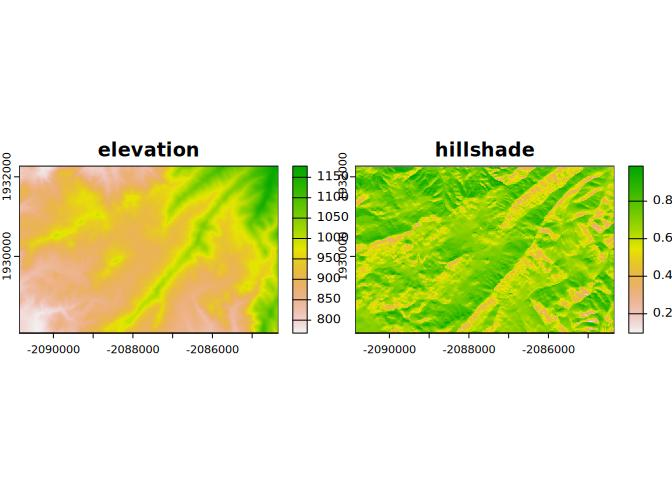
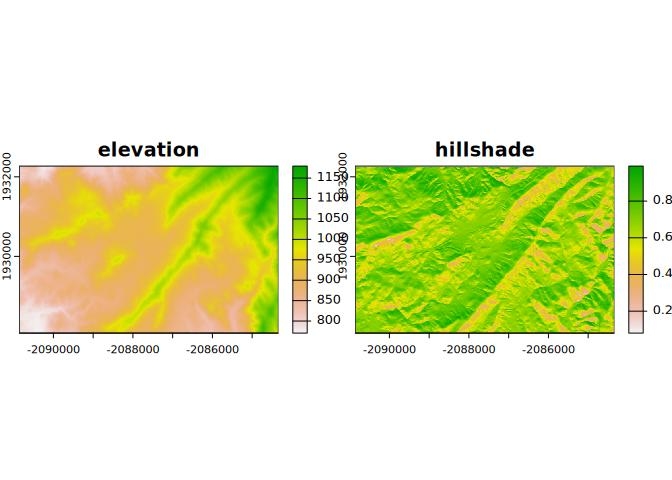
Bump examples and README

diff --git a/README.md b/README.md
@@ -222,7 +222,7 @@ b <- gd_bbox(
 
 ## hillshade example
 # download 10m NED DEM in AEA
-x <- "USGS/NED" |>
+x <- "USGS/3DEP/10m" |>
   gd_image_from_id() |>
   gd_download(
     region = b,
@@ -247,7 +247,7 @@ plot(c(dem, hillshade = hsd))
 
 <img src="man/figures/README-dem10-hillshade-1.jpeg" width="100%" />
 
-Subsets of the `"USGS/NED"` image result in multi-band GeoTIFF with
+Subsets of the `"USGS/3DEP/10m"` image result in multi-band GeoTIFF with
 `"elevation"` and `"FILL_MASK"` bands. In the contiguous US we know the
 DEM is continuous so the `FILL_MASK` is not that useful. With geedim
 \>1.7 we retrieve only the `"elevation"` band by specifying argument
@@ -308,6 +308,7 @@ x <- a |>
               crs = "EPSG:5070",
               scale = 1,
               filename = "image.tif",
+              bands = list("elevation"),
               overwrite = TRUE,
               silent = FALSE) |>
   rast()
